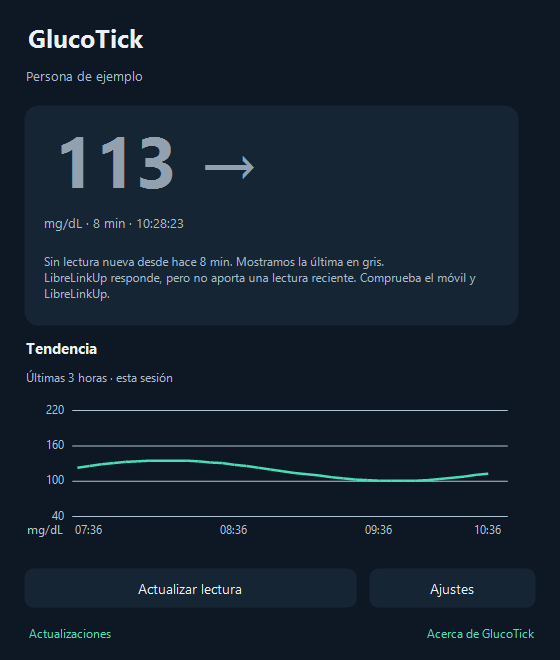
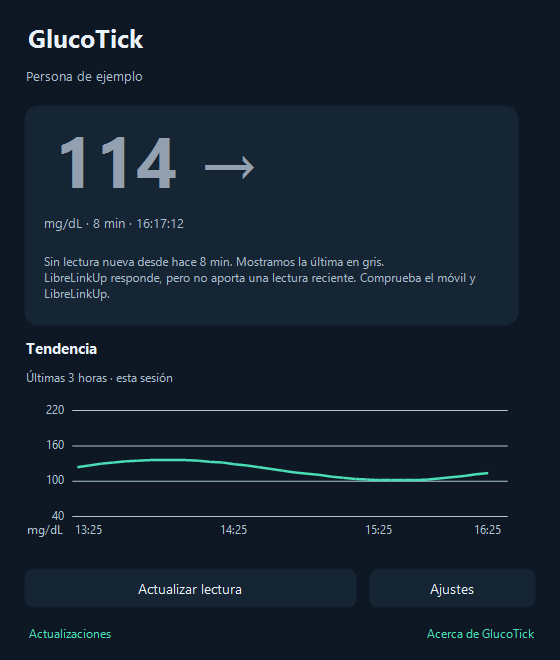
Renovar galería 0.8.7 con lectura 114 y Windows oscuro

diff --git a/docs/index.html b/docs/index.html
@@ -3,24 +3,34 @@
 <body><a class="skip" href="#contenido">Saltar al contenido</a>
 <header class="header wrap"><a class="brand" href="#" aria-label="GlucoTick, inicio"><img src="assets/icon.png?v=2" width="32" height="32" alt="">GlucoTick</a><nav aria-label="Principal"><a href="#vistas">Vistas</a><a href="#en-windows">Capturas</a><a href="#empezar">Cómo empezar</a><a href="#preguntas">Ayuda</a></nav><a class="button small download" href="https://github.com/tiri14/glucotick-releases/releases/latest">Descargar <span aria-hidden="true">↗</span></a></header>
 <main id="contenido">
-<section class="hero wrap"><div class="hero-copy"><p class="eyebrow"><span class="dot"></span> PARA WINDOWS · CON LIBRELINKUP</p><h1>Tu glucosa.<br>En tu <em>día a día.</em></h1><p class="lead">Sigue con lo que estás haciendo. GlucoTick mantiene tu lectura a la vista, junto al reloj de tu PC.</p><div class="actions"><a class="button download" href="https://github.com/tiri14/glucotick-releases/releases/latest">Descargar para Windows <span aria-hidden="true">↓</span></a><a class="text-link" href="#en-windows">Ver cómo queda en Windows →</a></div><p class="download-info" id="release-info">Windows 10 / 11 · x64 · Descarga gratuita</p><div class="hero-facts"><span>Tu cuenta, en tu PC</span><span>Actualiza cuando quieras</span><span>Elige dónde verlo</span></div></div><figure class="hero-image"><div class="image-glow"></div><img src="assets/panel-dark.png" width="560" height="660" alt="Panel de GlucoTick con una lectura ficticia de 113 mg/dL, antigüedad, conexión y gráfica de tendencia" fetchpriority="high"><figcaption>Interfaz real · datos ficticios de ejemplo</figcaption></figure></section>
+<section class="hero wrap"><div class="hero-copy"><p class="eyebrow"><span class="dot"></span> PARA WINDOWS · CON LIBRELINKUP</p><h1>Tu glucosa.<br>En tu <em>día a día.</em></h1><p class="lead">Sigue con lo que estás haciendo. GlucoTick mantiene tu lectura a la vista, junto al reloj de tu PC.</p><div class="actions"><a class="button download" href="https://github.com/tiri14/glucotick-releases/releases/latest">Descargar para Windows <span aria-hidden="true">↓</span></a><a class="text-link" href="#en-windows">Ver cómo queda en Windows →</a></div><p class="download-info" id="release-info">GlucoTick 0.8.7 · Windows 10 / 11 · x64 · Descarga gratuita</p><div class="hero-facts"><span>Tu cuenta, en tu PC</span><span>Actualiza cuando quieras</span><span>Elige dónde verlo</span></div></div><figure class="hero-image"><div class="image-glow"></div><img src="assets/panel-dark.png" width="560" height="660" alt="Panel de GlucoTick con una lectura ficticia de 114 mg/dL, antigüedad, conexión y gráfica de tendencia" fetchpriority="high"><figcaption>Interfaz real · datos ficticios de ejemplo</figcaption></figure></section>
 <section class="intro-band"><div class="wrap"><p>No necesitas mantener una ventana abierta.</p><span>Una mirada al reloj. Y vuelves a lo tuyo.</span></div></section>
 <section id="vistas" class="section wrap"><div class="section-top"><div><p class="eyebrow">A TU MANERA</p><h2>Tres vistas.<br>Tú eliges la combinación.</h2></div><p>Activa una, dos o todas. El número grande y el icono funcionan sin instalar Windhawk.</p></div><div class="view-grid">
-<article class="view-card"><span class="card-index">01 / DISCRETA</span><div class="tray-demo" aria-label="Representación del icono en la bandeja"><img src="assets/icon.png?v=2" width="36" height="36" alt="Icono de GlucoTick"><span class="or">o</span><strong>113</strong></div><h3>Junto al reloj</h3><p>La bandeja muestra la glucosa o el icono de GlucoTick. Haz clic para abrir el panel; con el botón derecho accedes a vistas, ajustes y actualizaciones.</p><small>Representación de las dos opciones de bandeja</small></article>
-<article class="view-card"><span class="card-index">02 / SIEMPRE A LA VISTA</span><div class="taskbar-demo"><img src="assets/barra.png" width="208" height="76" alt="Número grande de 113 y flecha horizontal, con unidad y antigüedad sobre fondo transparente"></div><h3>Número grande</h3><p>La lectura en la barra de tareas, con fondo transparente. Ajusta el ancho, la posición y el monitor para encontrar tu sitio.</p><small>Captura del indicador con datos ficticios</small></article>
-<article class="view-card"><span class="card-index">03 / INTEGRADA</span><div class="clock-demo" aria-label="Representación de la lectura integrada en el reloj"><span class="clock-reading">● 113 →</span><span>10:24<br><small>03/10/2026</small></span></div><h3>Dentro del reloj de Windows</h3><p>La integración opcional con Windhawk añade la glucosa al propio reloj de Windows 11. Un asistente te guía para configurarla.</p><a class="text-link" href="#reloj">Qué necesitas →</a><small>Representación de la integración; el estilo puede variar</small></article></div></section>
+<article class="view-card"><span class="card-index">01 / DISCRETA</span><div class="tray-demo" aria-label="Representación del icono en la bandeja"><img src="assets/icon.png?v=2" width="36" height="36" alt="Icono de GlucoTick"><span class="or">o</span><strong>114</strong></div><h3>Junto al reloj</h3><p>La bandeja muestra la glucosa o el icono de GlucoTick. Haz clic para abrir el panel; con el botón derecho accedes a vistas, ajustes y actualizaciones.</p><small>Representación de las dos opciones de bandeja</small></article>
+<article class="view-card"><span class="card-index">02 / SIEMPRE A LA VISTA</span><div class="taskbar-demo"><img src="assets/barra.png" width="208" height="76" alt="Número grande de 114 y flecha horizontal, con unidad y antigüedad sobre fondo transparente"></div><h3>Número grande</h3><p>La lectura en la barra de tareas, con fondo transparente. Ajusta el ancho, la posición y el monitor para encontrar tu sitio.</p><small>Captura del indicador con datos ficticios</small></article>
+<article class="view-card"><span class="card-index">03 / INTEGRADA</span><div class="clock-demo" aria-label="Representación de la lectura integrada en el reloj"><span class="clock-reading">● 114 →</span><span>10:24<br><small>03/10/2026</small></span></div><h3>Dentro del reloj de Windows</h3><p>La integración opcional con Windhawk añade la glucosa al propio reloj de Windows 11. Un asistente te guía para configurarla.</p><a class="text-link" href="#reloj">Qué necesitas →</a><small>Representación de la integración; el estilo puede variar</small></article></div></section>
 <section id="en-windows" class="section wrap native-gallery" aria-labelledby="gallery-title">
   <div class="section-top"><div><p class="eyebrow">EN TU ESCRITORIO</p><h2 id="gallery-title">Así se ve.<br>En Windows, de verdad.</h2></div><p>La misma lectura, cuatro formas de tenerla cerca. Explora las capturas y encuentra la vista que encaja contigo.</p></div>
   <div class="gallery-tabs" role="tablist" aria-label="Vistas reales de GlucoTick" hidden>
-    <button id="tab-tray" type="button" role="tab" aria-controls="shot-tray" aria-selected="true" tabindex="0"><span aria-hidden="true">01</span> Glucosa en la bandeja</button>
-    <button id="tab-icon" type="button" role="tab" aria-controls="shot-icon" aria-selected="false" tabindex="-1"><span aria-hidden="true">02</span> Icono de GlucoTick</button>
-    <button id="tab-large" type="button" role="tab" aria-controls="shot-large" aria-selected="false" tabindex="-1"><span aria-hidden="true">03</span> Número grande</button>
-    <button id="tab-clock" type="button" role="tab" aria-controls="shot-clock" aria-selected="false" tabindex="-1"><span aria-hidden="true">04</span> Dentro del reloj</button>
+    <button id="tab-clock" type="button" role="tab" aria-controls="shot-clock" aria-selected="true" tabindex="0"><span aria-hidden="true">01</span> Dentro del reloj</button>
+    <button id="tab-large" type="button" role="tab" aria-controls="shot-large" aria-selected="false" tabindex="-1"><span aria-hidden="true">02</span> Número grande</button>
+    <button id="tab-tray" type="button" role="tab" aria-controls="shot-tray" aria-selected="false" tabindex="-1"><span aria-hidden="true">03</span> Glucosa en la bandeja</button>
+    <button id="tab-icon" type="button" role="tab" aria-controls="shot-icon" aria-selected="false" tabindex="-1"><span aria-hidden="true">04</span> Icono de GlucoTick</button>
   </div>
   <div class="gallery-stage">
+    <figure id="shot-clock" class="native-shot" aria-labelledby="tab-clock">
+      <div class="capture-heading"><span><i></i> WINDOWS 11 · CAPTURA REAL</span><a href="assets/windows-reloj-integrado.png" target="_blank" rel="noopener">Ampliar captura ↗</a></div>
+      <a class="capture-image" href="assets/windows-reloj-integrado.png" target="_blank" rel="noopener" aria-label="Ampliar la captura real del reloj integrado"><img src="assets/windows-reloj-integrado.png" width="800" height="82" alt="Reloj real de Windows 11 con la integración Windhawk de GlucoTick: hora, fecha y lectura ficticia de 114 con indicador de color, tendencia y antigüedad" loading="lazy"></a>
+      <figcaption><div><span class="eyebrow">INTEGRADA JUNTO A LA HORA</span><h3>Todo dentro del reloj.</h3></div><p>Windhawk añade la lectura al propio reloj de Windows. La integración es opcional y puedes combinarla con las otras vistas. <a href="#reloj">Cómo configurarla →</a></p></figcaption>
+    </figure>
+    <figure id="shot-large" class="native-shot" aria-labelledby="tab-large">
+      <div class="capture-heading"><span><i></i> WINDOWS 11 · CAPTURA REAL</span><a href="assets/windows-numero-grande.png" target="_blank" rel="noopener">Ampliar captura ↗</a></div>
+      <a class="capture-image" href="assets/windows-numero-grande.png" target="_blank" rel="noopener" aria-label="Ampliar la captura real del número grande"><img src="assets/windows-numero-grande.png" width="800" height="82" alt="Lectura grande de 114 con flecha horizontal, mg/dL y un minuto, sobre el fondo real y transparente de la barra de Windows 11" loading="lazy"></a>
+      <figcaption><div><span class="eyebrow">MÁS FÁCIL DE LEER</span><h3>Glucosa, tendencia y antigüedad.</h3></div><p>El número grande se coloca sobre la barra, sin un recuadro de fondo. Puedes ajustar el ancho, la posición y el monitor. Funciona sin Windhawk.</p></figcaption>
+    </figure>
     <figure id="shot-tray" class="native-shot" aria-labelledby="tab-tray">
       <div class="capture-heading"><span><i></i> WINDOWS 11 · CAPTURA REAL</span><a href="assets/windows-bandeja-glucosa.png" target="_blank" rel="noopener">Ampliar captura ↗</a></div>
-      <a class="capture-image" href="assets/windows-bandeja-glucosa.png" target="_blank" rel="noopener" aria-label="Ampliar la captura real de la glucosa en la bandeja"><img src="assets/windows-bandeja-glucosa.png" width="800" height="82" alt="Barra de tareas real de Windows 11: el icono de GlucoTick muestra 113 junto a los iconos del sistema y el reloj" loading="lazy"></a>
+      <a class="capture-image" href="assets/windows-bandeja-glucosa.png" target="_blank" rel="noopener" aria-label="Ampliar la captura real de la glucosa en la bandeja"><img src="assets/windows-bandeja-glucosa.png" width="800" height="82" alt="Barra de tareas real de Windows 11: el icono de GlucoTick muestra 114 junto a los iconos del sistema y el reloj" loading="lazy"></a>
       <figcaption><div><span class="eyebrow">DISCRETA Y DIRECTA</span><h3>El valor, en el icono.</h3></div><p>La glucosa ocupa el lugar del icono de GlucoTick en la bandeja. Una opción pequeña para consultar la lectura mientras trabajas.</p></figcaption>
     </figure>
     <figure id="shot-icon" class="native-shot" aria-labelledby="tab-icon">
@@ -28,27 +38,17 @@
       <a class="capture-image" href="assets/windows-bandeja-icono.png" target="_blank" rel="noopener" aria-label="Ampliar la captura real del icono de GlucoTick"><img src="assets/windows-bandeja-icono.png" width="800" height="82" alt="El icono circular de GlucoTick aparece en la bandeja real de Windows 11, junto a los iconos del sistema" loading="lazy"></a>
       <figcaption><div><span class="eyebrow">TU ACCESO A LA APLICACIÓN</span><h3>Solo el icono, si lo prefieres.</h3></div><p>Si ya ves la lectura en grande o dentro del reloj, puedes dejar aquí el icono de GlucoTick. Mantienes el acceso al panel y al menú.</p></figcaption>
     </figure>
-    <figure id="shot-large" class="native-shot" aria-labelledby="tab-large">
-      <div class="capture-heading"><span><i></i> WINDOWS 11 · CAPTURA REAL</span><a href="assets/windows-numero-grande.png" target="_blank" rel="noopener">Ampliar captura ↗</a></div>
-      <a class="capture-image" href="assets/windows-numero-grande.png" target="_blank" rel="noopener" aria-label="Ampliar la captura real del número grande"><img src="assets/windows-numero-grande.png" width="800" height="82" alt="Lectura grande de 113 con flecha horizontal, mg/dL y un minuto, sobre el fondo real y transparente de la barra de Windows 11" loading="lazy"></a>
-      <figcaption><div><span class="eyebrow">MÁS FÁCIL DE LEER</span><h3>Glucosa, tendencia y antigüedad.</h3></div><p>El número grande se coloca sobre la barra, sin un recuadro de fondo. Puedes ajustar el ancho, la posición y el monitor. Funciona sin Windhawk.</p></figcaption>
-    </figure>
-    <figure id="shot-clock" class="native-shot" aria-labelledby="tab-clock">
-      <div class="capture-heading"><span><i></i> WINDOWS 11 · CAPTURA REAL</span><a href="assets/windows-reloj-integrado.png" target="_blank" rel="noopener">Ampliar captura ↗</a></div>
-      <a class="capture-image" href="assets/windows-reloj-integrado.png" target="_blank" rel="noopener" aria-label="Ampliar la captura real del reloj integrado"><img src="assets/windows-reloj-integrado.png" width="800" height="82" alt="Reloj real de Windows 11 con la integración Windhawk de GlucoTick: hora, fecha y lectura ficticia de 113 con indicador de color, tendencia y antigüedad" loading="lazy"></a>
-      <figcaption><div><span class="eyebrow">INTEGRADA JUNTO A LA HORA</span><h3>Todo dentro del reloj.</h3></div><p>Windhawk añade la lectura al propio reloj de Windows. La integración es opcional y puedes combinarla con las otras vistas. <a href="#reloj">Cómo configurarla →</a></p></figcaption>
-    </figure>
   </div>
-  <p class="gallery-note">Capturas reales en Windows Sandbox con GlucoTick 0.8.5 y lecturas ficticias. La apariencia y el tamaño pueden variar según tu tema, pantalla y ajustes de Windows.</p>
+  <p class="gallery-note">Capturas reales en Windows Sandbox con GlucoTick 0.8.7 y lecturas ficticias. La apariencia y el tamaño pueden variar según tu tema, pantalla y ajustes de Windows.</p>
 </section>
 
 <section class="section detail-section wrap"><div class="detail-copy"><p class="eyebrow">CUANDO QUIERES VER MÁS</p><h2>La lectura.<br>Y lo que hay detrás.</h2><p>Abre el panel para ver el valor, la flecha de tendencia, la hora de medición y cuánto tiempo ha pasado.</p><ul class="feature-list"><li><strong>Tendencia de esta sesión</strong><span>Gráfica con las lecturas recibidas durante las últimas tres horas. Pasa el ratón para consultar hora y valor.</span></li><li><strong>Conexión a la vista</strong><span>Distingue la antigüedad de la medición del último contacto con LibreLinkUp.</span></li><li><strong>Acciones claras</strong><span>Actualizar lectura, Ajustes, Actualizaciones y Acerca de, desde el mismo panel.</span></li></ul></div><figure class="screen light-screen"><a href="assets/panel-light.png" target="_blank" rel="noopener" aria-label="Abrir captura del panel en tema claro"><img src="assets/panel-light.png" width="560" height="660" alt="Panel de GlucoTick en tema claro con datos ficticios" loading="lazy"></a><figcaption>Tema claro. También puedes seguir el tema de Windows.</figcaption></figure></section>
-<section class="section wrap freshness"><div><p class="eyebrow">LA ANTIGÜEDAD IMPORTA</p><h2>Si no llega una lectura,<br>lo ves enseguida.</h2><p>Los minutos siguen aumentando desde la hora de la medición. Volver a consultar el mismo dato no reinicia el contador.</p><p>Después de <strong>más de cinco minutos</strong>, la última glucosa se muestra en <strong>gris en todas las vistas</strong>. Puede faltar conexión en el móvil, en el sensor o en LibreLinkUp.</p><p>Comprueba el móvil y LibreLinkUp. Puedes activar un aviso por falta de datos en Ajustes.</p></div><figure class="screen stale-screen"><a href="assets/lectura-antigua.png" target="_blank" rel="noopener"><img src="assets/lectura-antigua.png" width="560" height="660" alt="Ejemplo ficticio: 113 en gris, 8 minutos de antigüedad y mensaje de falta de una lectura reciente" loading="lazy"></a><figcaption>Ejemplo ficticio de una lectura que ya no es reciente.</figcaption></figure></section>
+<section class="section wrap freshness"><div><p class="eyebrow">LA ANTIGÜEDAD IMPORTA</p><h2>Si no llega una lectura,<br>lo ves enseguida.</h2><p>Los minutos siguen aumentando desde la hora de la medición. Volver a consultar el mismo dato no reinicia el contador.</p><p>Después de <strong>más de cinco minutos</strong>, la última glucosa se muestra en <strong>gris en todas las vistas</strong>. Puede faltar conexión en el móvil, en el sensor o en LibreLinkUp.</p><p>Comprueba el móvil y LibreLinkUp. Puedes activar un aviso por falta de datos en Ajustes.</p></div><figure class="screen stale-screen"><a href="assets/lectura-antigua.png" target="_blank" rel="noopener"><img src="assets/lectura-antigua.png" width="560" height="660" alt="Ejemplo ficticio: 114 en gris, 8 minutos de antigüedad y mensaje de falta de una lectura reciente" loading="lazy"></a><figcaption>Ejemplo ficticio de una lectura que ya no es reciente.</figcaption></figure></section>
 <section id="ajustes" class="section wrap"><div class="section-top"><div><p class="eyebrow">TU CONFIGURACIÓN</p><h2>Todo en su sitio.</h2></div><p>Unos ajustes para cada necesidad. Los colores son comunes a todas las vistas; los límites de avisos solo controlan notificaciones.</p></div><div class="settings-grid">
 <article><span class="card-index">CUENTA</span><h3>Conecta y elige la persona</h3><p>Comprueba tu cuenta de LibreLinkUp y selecciona de quién quieres ver las lecturas. Puedes guardar otras preferencias y conectar más tarde.</p><a href="assets/ajustes-0.png" target="_blank" rel="noopener"><img src="assets/ajustes-0.png" width="840" height="640" alt="Ajustes de cuenta con correo y contraseña vacíos" loading="lazy"></a></article>
 <article><span class="card-index">VISUALIZACIÓN</span><h3>Hazlo tuyo</h3><p>Tema claro, oscuro o del sistema; mg/dL o mmol/L; icono o glucosa; número grande y monitor. Elige iniciar con Windows, ocultar el nombre o activar el modo privado.</p><a href="assets/ajustes-1.png" target="_blank" rel="noopener"><img src="assets/ajustes-1.png" width="840" height="640" alt="Ajustes de unidades, tema, privacidad y formas de mostrar la glucosa" loading="lazy"></a></article>
 <article><span class="card-index">COLORES</span><h3>El mismo criterio en todas partes</h3><p>Configura cuatro límites para las zonas de color. Se aplican al panel, la bandeja, el número grande y el reloj. Una vista previa ayuda a comprobarlos. Los límites se introducen en mg/dL, también si visualizas mmol/L.</p><a href="assets/ajustes-2.png" target="_blank" rel="noopener"><img src="assets/ajustes-2.png" width="840" height="640" alt="Ajustes con cuatro límites de color y vista previa" loading="lazy"></a></article>
-<article><span class="card-index">AVISOS</span><h3>Decide cuándo recibir un aviso</h3><p>Notificaciones opcionales por glucosa baja o alta y por falta de datos recientes. Ajusta sus límites y prueba un aviso de Windows.</p><a href="assets/ajustes-3.png" target="_blank" rel="noopener"><img src="assets/ajustes-3.png" width="840" height="640" alt="Ajustes de avisos, falta de datos y prueba de notificación" loading="lazy"></a></article></div><p class="caption">Interfaz 0.8.5 capturada en Windows Sandbox con datos ficticios. Pulsa una imagen para verla completa.</p></section>
+<article><span class="card-index">AVISOS</span><h3>Decide cuándo recibir un aviso</h3><p>Notificaciones opcionales por glucosa baja o alta y por falta de datos recientes. Ajusta sus límites y prueba un aviso de Windows.</p><a href="assets/ajustes-3.png" target="_blank" rel="noopener"><img src="assets/ajustes-3.png" width="840" height="640" alt="Ajustes de avisos, falta de datos y prueba de notificación" loading="lazy"></a></article></div><p class="caption">Interfaz 0.8.7 capturada en Windows Sandbox con datos ficticios. Pulsa una imagen para verla completa.</p></section>
 <section id="empezar" class="section wrap"><p class="eyebrow">SIN COMPLICACIONES</p><h2>De la descarga<br>a tu primera lectura.</h2><ol class="steps"><li><span>1</span><h3>Instala GlucoTick</h3><p>Descarga el archivo <strong>GlucoTick-Setup</strong> de la última publicación y ábrelo. El instalador te guía; no hace falta extraer un ZIP.</p></li><li><span>2</span><h3>Comprueba LibreLinkUp</h3><p>Acepta la invitación de seguimiento en LibreLinkUp y comprueba que allí ves las lecturas. En GlucoTick, abre <strong>Ajustes → Cuenta</strong>, conecta y selecciona la persona.</p></li><li><span>3</span><h3>Elige tus vistas</h3><p>Guarda los ajustes y empieza por la bandeja o el número grande. Si quieres la glucosa dentro del reloj, configura la integración opcional.</p></li></ol><div class="requirements"><strong>Antes de empezar</strong><p>Windows 10 versión 2004 o posterior, o Windows 11 · PC x64 · .NET Framework 4.8 · Conexión a Internet · Cuenta de LibreLinkUp con acceso a las lecturas.</p></div></section>
 <section id="reloj" class="section wrap clock-section"><div><p class="eyebrow">OPCIONAL, DE VERDAD</p><h2>¿La glucosa dentro<br>del reloj? También.</h2><p>Windhawk es un programa externo que permite personalizar Windows. GlucoTick lo utiliza para añadir la lectura al reloj de <strong>Windows 11 x64</strong>.</p><p>Abre <strong>Ajustes → Visualización → Configurar el reloj de Windows</strong>. El asistente explica qué va a preparar y comprueba si el reloj está listo.</p><ul class="plain-list"><li>Primera preparación: hasta 313 MiB de descarga y 4 GB libres.</li><li>Windows puede pedir permiso de administrador.</li><li>Puedes reparar o desactivar la integración y conservar las otras vistas.</li><li>Las versiones de Windhawk no validadas se conservan; no se rebajan automáticamente.</li></ul><p class="muted">GlucoTick funciona sin Windhawk. Puedes configurar el reloj más adelante.</p></div><figure class="screen"><a href="assets/reloj-configurar.png" target="_blank" rel="noopener"><img src="assets/reloj-configurar.png" width="690" height="590" alt="Asistente real que explica la integración opcional del reloj y sus requisitos" loading="lazy"></a><figcaption>El asistente explica los pasos antes de empezar.</figcaption></figure></section>
 <section class="section wrap two-cards"><article class="info-card"><span class="symbol" aria-hidden="true">↗</span><p class="eyebrow">ACTUALIZACIONES</p><h2>Una nueva versión.<br>Cuando tú quieras.</h2><p>Una tarjeta muestra la versión disponible. También aparece en el menú del icono y puede avisarte con una notificación de Windows.</p><p>Abre <strong>Ver novedades y descargar</strong> para consultar los cambios y decidir cuándo instalar. Durante la descarga puedes ver tamaño, progreso y velocidad.</p><p>Cada apertura del panel o de Actualizaciones comprueba si hay una versión nueva. GlucoTick verifica el paquete, cierra la aplicación para actualizar y conserva la cuenta y las preferencias. Guarda antes los ajustes pendientes.</p><a class="text-link" href="https://github.com/tiri14/glucotick-releases/releases/latest">Ver la última publicación ↗</a></article><article class="info-card"><span class="symbol" aria-hidden="true">◈</span><p class="eyebrow">PRIVACIDAD</p><h2>Tu acceso,<br>guardado en tu PC.</h2><p>El correo y la contraseña se guardan cifrados para tu usuario de Windows. Las lecturas y la gráfica permanecen en memoria durante la sesión.</p><p>El modo privado oculta temporalmente el nombre, los valores y la gráfica en todas las vistas y suspende los avisos de glucosa. La conexión sigue funcionando.</p><p>La aplicación conecta con LibreLinkUp para las lecturas y con GitHub para las actualizaciones y dependencias. No incluye telemetría propia ni envía diagnósticos automáticamente.</p><a class="text-link" href="privacidad.html">Leer la información de privacidad →</a></article></section>

diff --git a/README.md b/README.md
@@ -2,13 +2,15 @@
 
 **Tu glucosa, a un vistazo en Windows.**
 
+Última versión: [**GlucoTick 0.8.7**](https://github.com/tiri14/glucotick-releases/releases/tag/v0.8.7).
+
 GlucoTick muestra las lecturas de tu cuenta de LibreLinkUp junto al reloj de tu PC. Elige cómo verlas, personaliza tus colores y recibe avisos si quieres.
 
 **[Descubre GlucoTick y sus capturas](https://tiri14.github.io/glucotick-releases/)** · **[Descargar la última versión para Windows](https://github.com/tiri14/glucotick-releases/releases/latest)**
 
 <img src="docs/assets/panel-dark.png" width="420" alt="Panel real de GlucoTick con datos ficticios de ejemplo">
 
-[Ver capturas reales en Windows: bandeja, número grande y reloj integrado](https://tiri14.github.io/glucotick-releases/#en-windows). Capturadas en Sandbox con lecturas ficticias.
+[Ver capturas reales en Windows: reloj integrado, número grande, bandeja y logo](https://tiri14.github.io/glucotick-releases/#en-windows). Capturadas en Sandbox con lecturas ficticias.
 
 ## Elige dónde ver la glucosa
 
